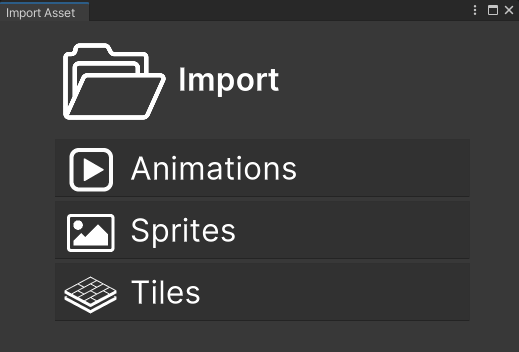
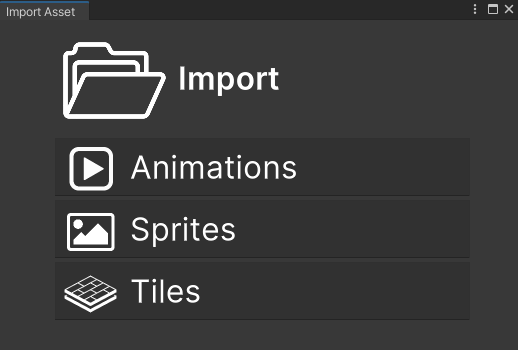
mise a jour documentaire

diff --git a/src/import_spritesheet.md b/src/import_spritesheet.md
@@ -11,10 +11,7 @@ To import tiles, you need to access the **Import Assets** User Interface (UI). I
 
 The UI let you choose what kind of assets you want to import.
 
-![import_ui2.png](./../media/import/import_ui2.PNG)
-xx
 ![import_ui.png](./../media/import/import_ui.png)
-cc
 
 ---
 ## Import Animations
